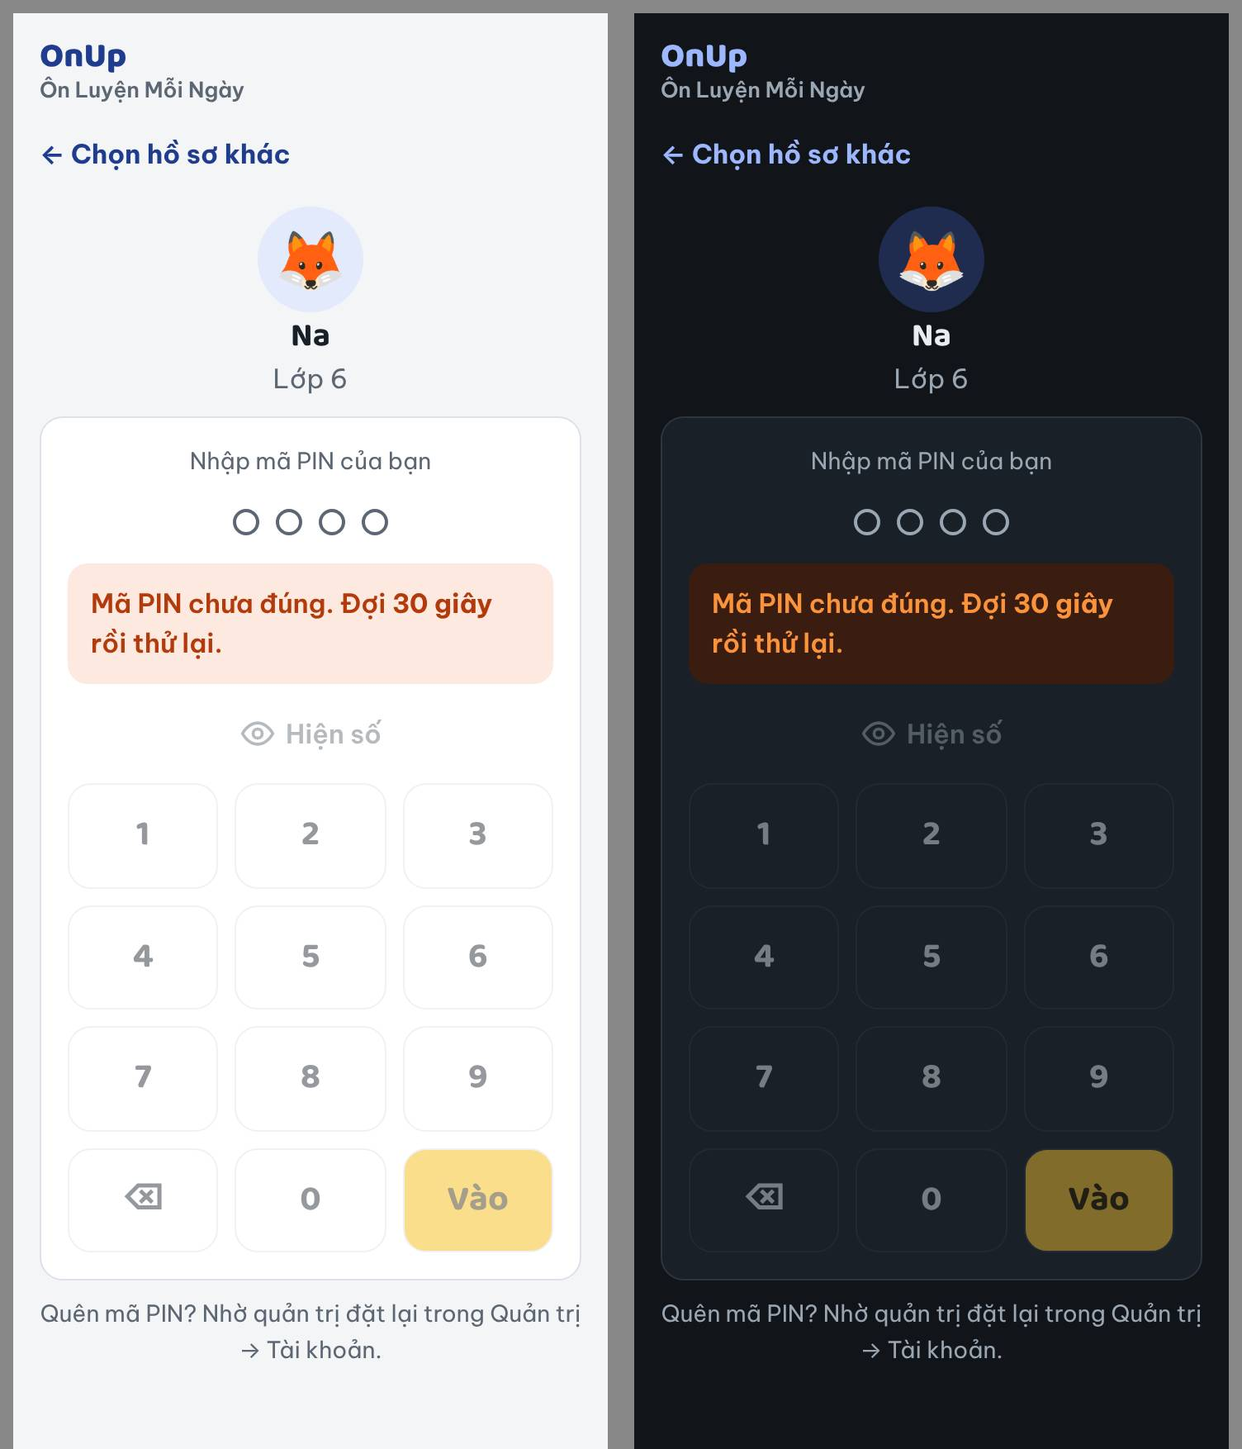
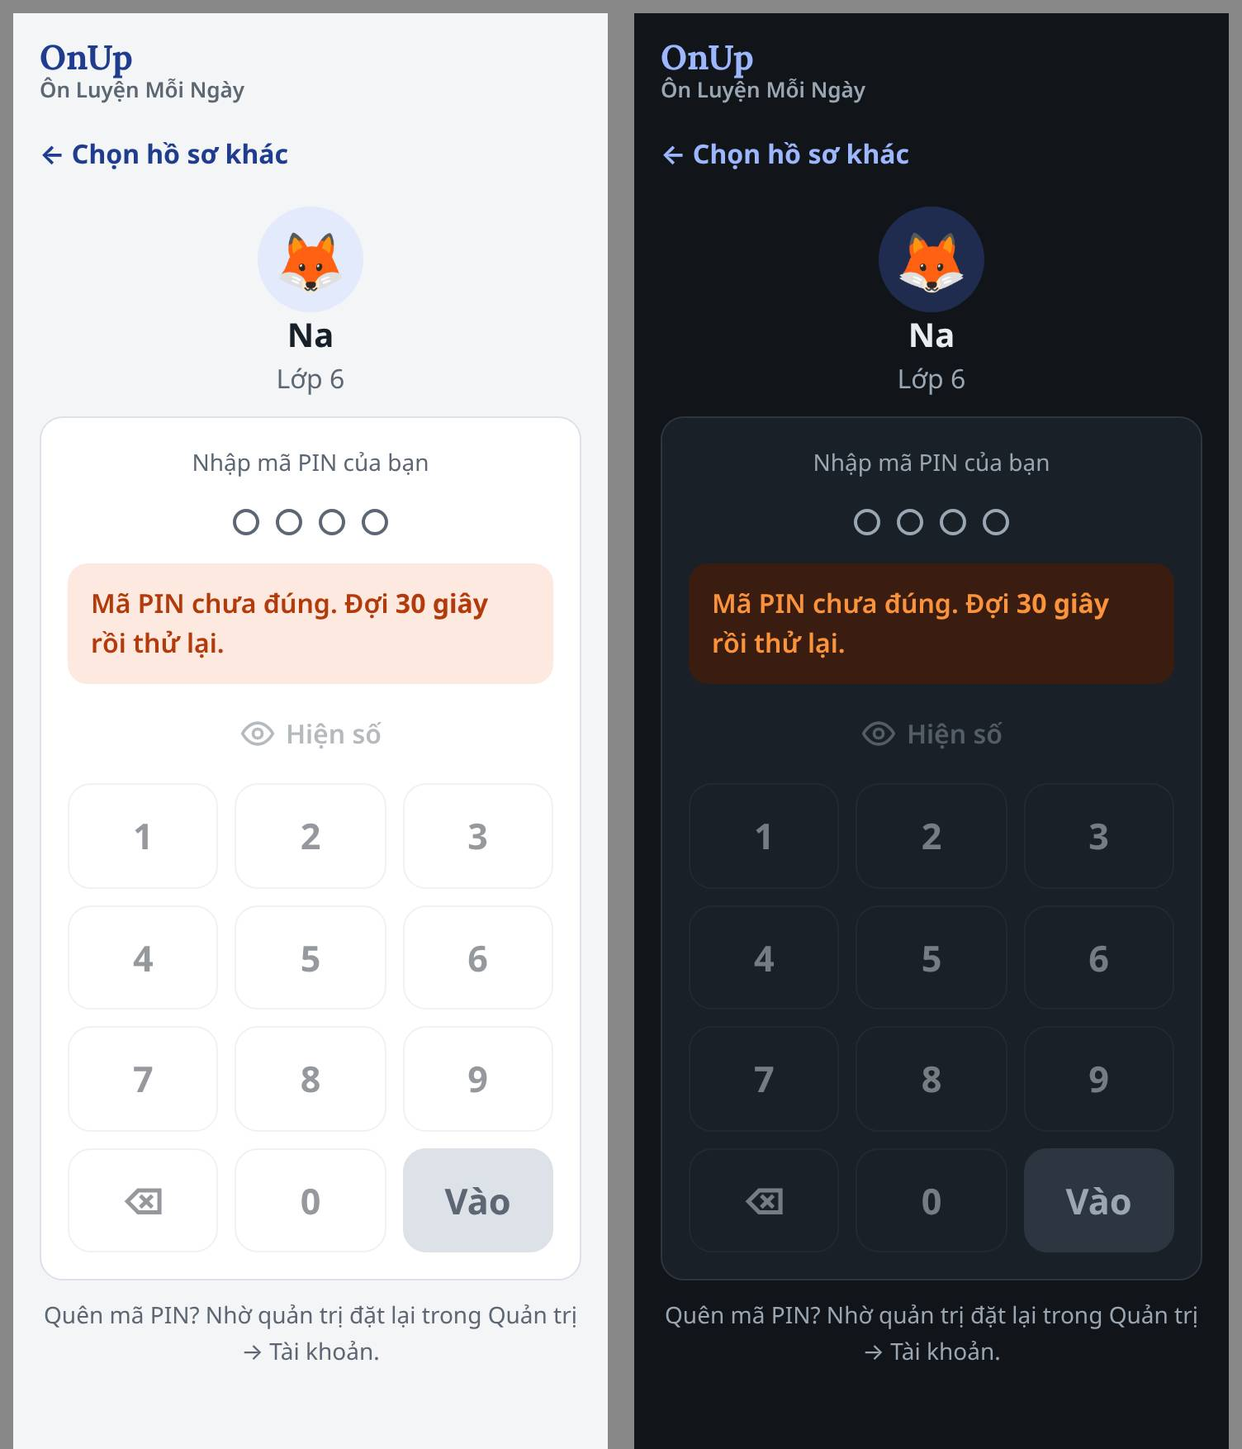
Phiên UI2: nút chính và phím Vào bị tắt có nền line, chữ muted (X32)
Nút chính bị tắt (.btn.main:disabled: "Cho con học", "Vào khu phụ huynh",
"Đăng xuất" của hộp hỏi khi phải đợi, "Tạo hồ sơ" khi đủ hồ sơ, "Chuyển dữ
liệu máy này lên đám mây") và phím Vào của bàn phím PIN bị tắt: nền --line,
chữ --muted, không làm mờ, ở cả sáng và tối. Trước đây chỉ làm mờ .45, nên ở
chế độ tối nền --sun thành khối màu ô liu, trông như nút bấm được. Nút khác
bị tắt giữ opacity .45; cách bật, tắt nút không đổi.

Phím Vào bỏ style viết thẳng trong pinBoxHTML (js/app.js), dùng lớp .ok
(.pad .ok trong css/app.css).

Kiểm thử: bước UX4 của tests/e2e.js (phím Vào khi phải đợi, bật lại) và
kiểm tra "UI2" của tests/supabase/cloud-e2e.js ("Cho con học" khi chưa có
hồ sơ con và khi đã có; phím Vào của mã mở nhanh khi phải đợi, bật lại), cả
sáng và tối: màu đã vẽ bằng màu của token, opacity 1; phím số, "Hiện số" bị
tắt vẫn mờ .45. Ảnh 360px sáng/tối chép lại: docs/hinh-ux4/a4-dang-doi.jpg,
ma-mo-nhanh-dang-doi.jpg, docs/hinh-ux3/bat-dau-3-buoc.jpg; ảnh trước/sau
docs/hinh-ux-2x/ui2-truoc-sau.jpg. CLAUDE.md thêm quy ước "Nút bị tắt".

Claude-Session: https://claude.ai/code/session_01BczvG198oPGaf6YZgZphM5

diff --git a/tests/supabase/cloud-e2e.js b/tests/supabase/cloud-e2e.js
@@ -96,6 +96,12 @@ const audit = () => {
   }
   return [...new Set(bad)];
 };
+/* Phiên UI2 (X32), như btnTone của tests/e2e.js: màu đã vẽ của nút (nền, chữ, opacity) và màu đã tính của token line, muted, sun, sun-ink.
+   Nút chính, phím Vào bị tắt: nền line, chữ muted, opacity 1 (offTone); bật: nền sun, chữ sun-ink (onTone). */
+const btnTone = (sel) => { const b = document.querySelector(sel), s = getComputedStyle(b), tok = (v) => { const i = document.createElement("i"); i.style.color = `var(${v})`; document.body.appendChild(i); const c = getComputedStyle(i).color; i.remove(); return c; };
+  return { dis: b.disabled, bg: s.backgroundColor, color: s.color, op: s.opacity, line: tok("--line"), muted: tok("--muted"), sun: tok("--sun"), sunInk: tok("--sun-ink") }; };
+const offTone = (t) => !!t && t.dis && t.bg === t.line && t.color === t.muted && t.op === "1";
+const onTone = (t) => !!t && !t.dis && t.bg === t.sun && t.color === t.sunInk && t.op === "1";
 
 // Chữ cái tiếng Việt (như tests/kiem-tra-de.js): màn làm đề Tiếng Anh không được có (TA2).
 const CHU_VIET = /[àáảãạăằắẳẵặâầấẩẫậèéẻẽẹêềếểễệìíỉĩịòóỏõọôồốổỗộơờớởỡợùúủũụưừứửữựỳýỷỹỵđ]/iu;
@@ -234,6 +240,7 @@ async function run(browser, scheme) {
     add: !!st.querySelector("a.btn[href='#/admin/user/new?role=student']"), first: document.querySelector("#kids").firstElementChild.id, rows: document.querySelectorAll("#kids > .row").length,
     link2: [...st.querySelectorAll(".step:nth-child(2) a")].map((a) => a.getAttribute("href") + " · " + a.textContent).join() } : null; }); // link2: link đặt mã PIN của bước 2 (UX3b)
   c.ux3 = { start0: await startOf(p), switchTxt: await text(p, "#switchWho") }; c.ux3b = {}; // ux3b: các kiểm tra của Phiên UX3b
+  c.ui2 = { letOff: await p.evaluate(btnTone, "#letStudy") }; // UI2 (X32): "Cho con học" bị tắt: nền line, chữ muted, không mờ
 
   /* ---- thêm hồ sơ con ---- */
   await p.click("a[href='#/admin/user/new?role=student']"); await p.waitForSelector("#uForm");
@@ -252,6 +259,7 @@ async function run(browser, scheme) {
   c.ux2.kids = await p.evaluate(() => ({ cards: [...document.querySelectorAll("#kids a.kid")].map((k) => k.getAttribute("href") + " " + [...k.querySelectorAll(".stat")].map((s) => s.querySelector("b").textContent + " " + s.querySelector("span").textContent).join("|") + " " + (k.querySelector(".kid-ev") || {}).textContent).join("; ").replace(/\s+/g, " "),
     extraStats: !!document.querySelector("#view > .stack > .stats"), h2: [...document.querySelectorAll("#view h2")].map((h) => h.textContent).join(), count: [...document.querySelectorAll("#kids > .row > .small")].map((x) => x.textContent).join(), add: !!document.querySelector("#kids > .row > a[href='#/admin/user/new?role=student']"), hint: document.querySelector("#kids > p.small").textContent }));
   c.ux3.start2 = await startOf(p); // UX3: có con nhưng chưa con nào học: bước 1 xong, bước 3 đang làm, "Cho con học" bật; UX3b (X19): Bin có mã, Na không: bước 2 chưa ✓, "Na chưa có", link "Đặt mã PIN cho Na"
+  c.ui2.letOn = await p.evaluate(btnTone, "#letStudy");
   await shot(p, "c6-cac-con");
   // UX3b (X18): link của bước 2 mở thẳng hồ sơ của Na (?tu=batdau): ô Mã PIN được focus, nút quay lại về Các con; để trống mã mà Lưu thì toast "Đã lưu",
   // về Các con, bước 2 vẫn chưa ✓; có mã thì toast "Đã đặt mã PIN cho Na", về Các con, bước 2 có ✓ "Bin, Na đã có mã PIN." và hết link
@@ -642,10 +650,13 @@ async function run(browser, scheme) {
   const lockUI3 = () => p3.evaluate(() => { const top = (s) => document.querySelector(s).getBoundingClientRect().top; return { dis: [...document.querySelectorAll(".pad button")].filter((b) => b.disabled).length, show: document.querySelector("#pinShow").disabled,
     order: top("#pinDots") < top("#pinErr") && top("#pinErr") < top("#pinShow") && top("#pinShow") < top(".pad"), err: document.querySelector("#pinErr").textContent.replace(/\s+/g, " ").trim(), fails: (JSON.parse(localStorage.getItem("ontap_pinlock_v1") || "{}")["phu-huynh"] || {}).fails }; });
   c.ux4.locked = await lockUI3();
+  c.ui2.padOff = await p3.evaluate(btnTone, ".pad .ok"); // UI2 (X32): phím Vào bị tắt như nút chính bị tắt; phím số, Hiện số vẫn mờ .45
+  c.ui2.padDim = await p3.evaluate(() => [...document.querySelectorAll('.pad button:not(.ok)'), document.querySelector("#pinShow")].map((b) => getComputedStyle(b).opacity));
   await shot(p3, "c10c-dang-doi");
   await p3.evaluate(() => { const o = JSON.parse(localStorage.getItem("ontap_pinlock_v1")); o["phu-huynh"].until = Date.now() + 1200; localStorage.setItem("ontap_pinlock_v1", JSON.stringify(o)); });
   await p3.waitForSelector("#pinErr .fb.ok", { timeout: 5000 });
   c.ux4.unlocked = await lockUI3();
+  c.ui2.padOn = await p3.evaluate(btnTone, ".pad .ok");
   await p3.click("#pinToPw"); await p3.waitForSelector("#pwBox:not([hidden])");
   c.ux3.toPw = (await p3.$eval("#pinBox", (b) => b.hidden)) + " " + (await text(p3, "#pwToPin"));
   await p3.click("#pwToPin"); await p3.waitForSelector("#pinBox:not([hidden])");
@@ -1030,6 +1041,8 @@ async function run(browser, scheme) {
       && !!c.ux3.start2 && c.ux3.start2.steps === "done:Thêm hồ sơ con|:Đặt mã PIN (không bắt buộc)|now:Đưa máy cho con" && !c.ux3.start2.disabled && c.ux3.start2.h >= 52 && c.ux3.start2.first === "start" && c.ux3.start2.rows === 1
       && /✓Thêm hồ sơ conĐã có 2 hồ sơ: Bin, Na\. 2Đặt mã PIN \(không bắt buộc\)Bin đã có mã PIN\. Na chưa có\.Đặt mã PIN cho Na 3Đưa máy cho con/.test(c.ux3.start2.text) && /Lúc khác, bấm “Chọn hồ sơ khác” ở góc trên\.$/.test(c.ux3.start2.text)
       && c.ux3.letStudy && c.ux3.gone,
+    "UI2 (X32): nút chính, phím Vào bị tắt có nền line, chữ muted, không mờ (“Cho con học” khi chưa có hồ sơ con, Vào khi phải đợi); bật lại thì nền sun, chữ sun-ink; phím số, Hiện số bị tắt vẫn mờ .45":
+      offTone(c.ui2.letOff) && onTone(c.ui2.letOn) && offTone(c.ui2.padOff) && onTone(c.ui2.padOn) && c.ui2.padDim.length === 12 && c.ui2.padDim.every((o) => o === "0.45"),
     "UX3b (X19): bước 2 chưa ✓ khi Na chưa có mã: ghi “Bin đã có mã PIN. Na chưa có.”, link “Đặt mã PIN cho Na” mở thẳng hồ sơ của Na; mọi con có mã thì ✓ “Bin, Na đã có mã PIN.”, hết link; nút “Cho con học” vẫn bật":
       c.ux3.start2.link2 === `#/admin/user/${naId}?tu=batdau · Đặt mã PIN cho Na` && c.ux3b.pinSave.start.steps === "done:Thêm hồ sơ con|done:Đặt mã PIN (không bắt buộc)|now:Đưa máy cho con"
       && /✓Đặt mã PIN \(không bắt buộc\)Bin, Na đã có mã PIN\. 3Đưa máy cho con/.test(c.ux3b.pinSave.start.text) && c.ux3b.pinSave.start.link2 === "" && !c.ux3b.pinSave.start.disabled,

diff --git a/tests/e2e.js b/tests/e2e.js
@@ -2373,11 +2373,18 @@ const TODAY = "2026-10-21T07:00:00", T0 = Date.now();
   step("profile entry step, PIN lock UI, tap-to-change avatar (UX4)");
   /* Phiên UX4 (X1–X4), bản lưu trên máy: chạm hồ sơ có PIN thì sang bước nhập riêng #/vao/<mã> (không cuộn, tên và 12 nút bàn phím
      trong khung nhìn 740px, "← Chọn hồ sơ khác", hình to, tên, lớp, "Nhập mã PIN của bạn", hàng chấm, nút chữ "Hiện số", bàn phím, dòng
-     quên PIN); số đã gõ chỉ hiện ở hàng chấm (ô #pinIn ẩn); sai 5 lần thì đếm ngược ngay dưới hàng chấm, bàn phím và Hiện số disabled,
-     hết giờ bật lại; trang Tài khoản: chạm hình là đổi ngay (Store.user(id).avatar đổi, toast, không có nút Lưu), form đổi mã PIN riêng.
+     quên PIN); số đã gõ chỉ hiện ở hàng chấm (ô #pinIn ẩn); sai 5 lần thì đếm ngược ngay dưới hàng chấm, bàn phím và Hiện số disabled
+     (phím Vào nền line, chữ muted, không mờ; phím khác mờ .45; Phiên UI2, X32), hết giờ bật lại; trang Tài khoản: chạm hình là đổi ngay
+     (Store.user(id).avatar đổi, toast, không có nút Lưu), form đổi mã PIN riêng.
      Ảnh 360px sáng/tối ở tests/screenshots/ux4/ (bản ghép <tên>.jpg): a3-nhap-pin, a3-hien-so, a4-dang-doi, a6-hinh-dai-dien, a6-da-doi. */
   const OUTUX4 = OUT + "ux4/"; fs.mkdirSync(OUTUX4, { recursive: true });
   const ux4 = { problems: [], shots: [] };
+  /* Phiên UI2 (X32): màu đã vẽ của nút (nền, chữ, opacity) và màu đã tính của token line, muted, sun, sun-ink (bản giống trong
+     tests/supabase/cloud-e2e.js). Phím Vào bị tắt khi phải đợi: nền line, chữ muted, opacity 1 (offTone); bật lại: nền sun, chữ sun-ink (onTone). */
+  const btnTone = (sel) => { const b = document.querySelector(sel), s = getComputedStyle(b), tok = (v) => { const i = document.createElement("i"); i.style.color = `var(${v})`; document.body.appendChild(i); const c = getComputedStyle(i).color; i.remove(); return c; };
+    return { dis: b.disabled, bg: s.backgroundColor, color: s.color, op: s.opacity, line: tok("--line"), muted: tok("--muted"), sun: tok("--sun"), sunInk: tok("--sun-ink") }; };
+  const offTone = (t) => !!t && t.dis && t.bg === t.line && t.color === t.muted && t.op === "1";
+  const onTone = (t) => !!t && !t.dis && t.bg === t.sun && t.color === t.sunInk && t.op === "1";
   for (const scheme of ["light", "dark"]) {
     const c = await newContext({ storageState: state, viewport: { width: 360, height: 740 }, deviceScaleFactor: 2, colorScheme: scheme });
     await localConfig(c); watchOut(c);
@@ -2402,10 +2409,13 @@ const TODAY = "2026-10-21T07:00:00", T0 = Date.now();
     for (let i = 0; i < 5; i++) { for (const k of "0000") await p.click(`.pad button[data-k="${k}"]`); await p.waitForTimeout(250); } // sai 5 lần
     await p.waitForSelector("#pinWait");
     r.locked = await lockUI4();
+    r.okOff = await p.evaluate(btnTone, ".pad .ok"); // UI2 (X32): phím Vào bị tắt; phím số, Hiện số vẫn mờ .45
+    r.dim = await p.evaluate(() => [...document.querySelectorAll(".pad button:not(.ok)"), document.querySelector("#pinShow")].map((b) => getComputedStyle(b).opacity));
     await check4("đang phải đợi"); await snap4("a4-dang-doi");
     await p.evaluate(() => { const o = JSON.parse(localStorage.getItem("ontap_pinlock_v1")); for (const k in o) if (o[k].until) o[k].until = Date.now() + 1200; localStorage.setItem("ontap_pinlock_v1", JSON.stringify(o)); });
     await p.waitForSelector("#pinErr .fb.ok", { timeout: 5000 });
     r.unlocked = await lockUI4();
+    r.okOn = await p.evaluate(btnTone, ".pad .ok");
     for (const k of "4444") await p.click(`.pad button[data-k="${k}"]`); await p.waitForSelector("#today"); // bật lại thì vào được
     r.in = await p.evaluate(() => (Store.sessionUser() || {}).name);
     // X4: trang Tài khoản: thẻ "Hình đại diện" chạm là đổi; form "Đổi mã PIN" riêng
@@ -2439,6 +2449,7 @@ const TODAY = "2026-10-21T07:00:00", T0 = Date.now();
       && r.shown.dots === "44" && /shown/.test(r.shown.cls) && r.shown.pressed === "true" && r.shown.inputW <= 1 && r.shown.type === "text"
       && r.locked.dis === 12 && r.locked.show && r.locked.order && /^Mã PIN chưa đúng\. Đợi (30|29) giây rồi thử lại\.$/.test(r.locked.err) && r.locked.inputW <= 1
       && r.unlocked.dis === 0 && !r.unlocked.show && r.unlocked.order && r.unlocked.err === "Bạn nhập lại được rồi." && r.in === "Na"
+      && offTone(r.okOff) && onTone(r.okOn) && r.dim.length === 12 && r.dim.every((o) => o === "0.45")
       && r.account.hint === "Chạm vào hình là đổi ngay." && !r.account.save && r.account.pinBtn === "Đổi mã PIN" && r.account.h3 === "Hình đại diện,Đổi mã PIN"
       && r.changed.av && r.changed.toast === "Đã đổi hình đại diện" && r.changed.head && r.changed.top && r.changed.pressed && r.changed.saved && /Nhập mã PIN mới/.test(r.pinForm); });
 

diff --git a/css/app.css b/css/app.css
@@ -80,6 +80,9 @@ a{color:var(--acc)}
 /* Vùng bấm tối thiểu 44×44px (tay trẻ): nút nhỏ, link dạng nút giữ cỡ chữ, chỉ cao thêm. */
 .btn.sm{padding:7px 12px;font-size:.875rem;border-radius:10px;min-height:44px}
 .btn:disabled{opacity:.45;cursor:default}
+/* Nút chính và phím Vào của bàn phím PIN bị tắt (X32, Phiên UI2): nền line, chữ muted, không làm mờ. Làm mờ nền sun trên thẻ tối
+   thành khối màu ô liu, trông như một nút khác màu vẫn bấm được. Nút khác (.btn thường, ghost, danger, phím số, Hiện số) vẫn mờ .45. */
+.btn.main:disabled,.pad .ok:disabled{background:var(--line);color:var(--muted);opacity:1}
 .linkbtn{border:0;background:none;color:var(--acc);font-weight:700;padding:4px 0;text-align:left;align-self:flex-start;min-height:44px;min-width:44px;display:inline-flex;align-items:center}
 /* <details class="small"> (hướng dẫn gấp lại, ví dụ "Cách viết câu hỏi" ở màn nhập đề): dòng summary là vùng bấm, cao ≥ 44px, chữ căn giữa;
    giữ dấu tam giác mặc định (display: list-item). .grp>summary, .psg>summary có kiểu riêng bên dưới. */
@@ -159,6 +162,7 @@ a.kid{color:inherit;text-decoration:none;gap:12px}
 .pad{display:grid;grid-template-columns:repeat(3,1fr);gap:10px;max-width:300px;margin:0 auto;width:100%}
 .pad button{border:1px solid var(--line);background:var(--surface);border-radius:14px;padding:14px 0;font-size:1.35rem;font-weight:700;min-height:44px}
 .pad button:disabled{opacity:.45;cursor:default} /* đang phải đợi sau nhiều lần sai (UX4, X3) */
+.pad .ok{background:var(--sun);color:var(--sun-ink)} /* phím Vào; bị tắt thì như nút chính bị tắt (X32, quy tắc ở phần nút) */
 /* bước nhập PIN, mật khẩu (#/vao/<mã>, renderEnter trong js/app.js, UX4): hình to, tên, lớp ở giữa; bàn phím ngay dưới,
    cả màn hình vừa 360×740 không cuộn (tests/e2e.js, cloud-e2e.js đo tên và 12 nút bàn phím trong khung nhìn). */
 .enter{gap:10px}

diff --git a/js/app.js b/js/app.js
@@ -392,7 +392,7 @@
         <label class="field sr"><span id="pinLabel">Mã PIN</span><input id="pinIn" type="password" inputmode="numeric" maxlength="6" autocomplete="off" data-reveal="pinShow"></label>
         <div id="pinErr" aria-live="assertive"></div>
         <button type="button" class="linkbtn pin-show" id="pinShow"></button>
-        <div class="pad">${[1, 2, 3, 4, 5, 6, 7, 8, 9].map((n) => `<button type="button" data-k="${n}">${n}</button>`).join("")}<button type="button" data-k="del" aria-label="Xóa">⌫</button><button type="button" data-k="0">0</button><button type="button" data-k="ok" aria-label="Vào" style="background:var(--sun);color:var(--sun-ink)">Vào</button></div>
+        <div class="pad">${[1, 2, 3, 4, 5, 6, 7, 8, 9].map((n) => `<button type="button" data-k="${n}">${n}</button>`).join("")}<button type="button" data-k="del" aria-label="Xóa">⌫</button><button type="button" data-k="0">0</button><button type="button" class="ok" data-k="ok" aria-label="Vào">Vào</button></div>
         <div class="row" style="justify-content:center" id="pinAlt" hidden></div>
       </section>`;
   /* Bàn phím PIN dùng chung cho đăng nhập trên máy và trên đám mây. submit(pin) được gọi khi bấm Vào, Enter,

diff --git a/CLAUDE.md b/CLAUDE.md
@@ -224,6 +224,7 @@ Trang admin (`admin.html`, chủ app mở `…/OnUp/admin.html`):
 - Mọi đọc/ghi localStorage/sessionStorage bọc try/catch.
 - Màu chỉ dùng token trong `:root` của `css/app.css`. **Chữ (chủ app chốt 20/10/2026):** mọi chữ dùng Noto Sans (`--body`; 400–700), kể cả tiêu đề h1–h3, số liệu, ngày thi, bàn phím PIN, chữ A B C D. Lora (`--display`, chỉ có 700) chỉ ở hai chỗ cần nổi bật: chữ OnUp ở thanh trên (`.brand`) và điểm to ở màn kết quả (`.score`, cả 4 bài ôn); không thêm chỗ dùng Lora khác. Dòng dưới chữ OnUp (`.brand-sub`) luôn là chữ nhỏ màu nhạt, mọi bề rộng màn hình. Một khối chỉ nên có một tiêu đề và các dòng phụ cùng một kiểu (chữ thường, màu nhạt, như đầu báo cáo tuần), không chồng nhãn chữ hoa, tiêu đề, dòng đậm, dòng nhạt trong cùng một chỗ. Tiêu đề h1–h3 line-height 1.35 (chữ hoa hai dấu như Ố, Ẫ không chạm chân chữ g, y của dòng trên); số bằng Lora dùng chữ số tỉ lệ, không ghi `tabular-nums` (chữ số bằng nhau của Lora rộng 0,65em, dấu phẩy 0,33em). Không ghi độ đậm 800 (font chỉ có đến 700). Bước offline của `tests/e2e.js` kiểm tra: `var(--display)` chỉ ở `.brand`, `.score` (bài ôn: `.score`), không `tabular-nums`, h1–h3 1.35, không 800. Bản lưu trên máy không tải gì từ host khác (không Google Fonts, không CDN); `tests/e2e.js` kiểm tra.
 - **Ô trả lời (chủ app chốt 21/10/2026):** ô đang chọn (chưa kiểm tra) và ô đang gõ ở mọi môn, mọi dạng câu dùng một màu xanh: `--acc`, `--acc-soft` ở app (`.opt.sel`, `.qtext .blank`, thang tự chấm), `--pick`, `--pick-soft` cùng giá trị ở 4 bài ôn. Không tô ô đang chọn bằng màu của môn: hồng dễ lẫn với câu sai (`--bad`), xanh lá dễ lẫn với câu đúng (`--ok`). Riêng ô bên trái đang chờ nối của câu nối cột viền vàng (`.mt-li.on`, cùng màu vòng focus); các ô đã nối vẫn là `.opt.sel` xanh.
+- **Nút bị tắt (Phiên UI2, X32):** nút chính (`.btn.main:disabled`: “Cho con học”, “Vào khu phụ huynh”, “Đăng xuất” của hộp hỏi khi phải đợi, “Tạo hồ sơ” khi đủ hồ sơ, “Chuyển dữ liệu máy này lên đám mây”…) và phím Vào của bàn phím PIN (`.pad .ok:disabled`) bị tắt có nền `--line`, chữ `--muted`, không làm mờ, ở cả sáng và tối: làm mờ nền `--sun` trên thẻ tối thành khối màu ô liu, trông như nút khác màu vẫn bấm được. Nút khác bị tắt (`.btn` thường, `ghost`, `danger`, phím số, “Hiện số”) giữ `opacity: .45`. Phím Vào tô màu bằng lớp `.ok` trong css/app.css, không viết style thẳng trong `pinBoxHTML`. Kiểm thử: bước UX4 của `tests/e2e.js` (phím Vào khi phải đợi) và kiểm tra “UI2” của `tests/supabase/cloud-e2e.js` (“Cho con học” khi chưa có hồ sơ con, phím Vào của mã mở nhanh khi phải đợi), cả sáng và tối, so màu đã vẽ với màu của token (`btnTone`).
 - **Hình đại diện** (chủ app yêu cầu 22/10/2026: thêm vài hình hải cẩu): trường `avatar` là một emoji (`AVATARS` trong js/app.js) hoặc mã một hình vẽ riêng trong `ART` (`hai-cau-xam`, `hai-cau-con`, `hai-cau-dom`, `hai-cau-mu`, `hai-cau-bong`, `hai-cau-kinh`; file `icons/avatars/<mã>.svg`). Emoji hải cẩu chỉ có một (🦭) và máy cũ không hiện được, nên hình vẽ riêng giống nhau trên mọi máy; màu ghi cố định trong file như emoji và `icons/icon.svg` (không theo token, sáng tối như nhau). Luôn vẽ qua `avatar(u, lg)` hoặc `avIn(a)` của js/app.js, không chèn thẳng `u.avatar` vào HTML: hình vẽ là `<img class="art" alt="">` to bằng emoji cùng cỡ chữ (`.art` trong css/app.css); ô chọn hình của hình vẽ có `aria-label` là tên hình. Mã ≤ 16 kí tự (cột `profiles.avatar` của bản đám mây có check), máy chủ lưu như emoji. Thêm hình vẽ: hình tự vẽ (không vẽ nhân vật có sẵn), file SVG vào `icons/avatars/`, mã và tên vào `ART`, file vào `AVATAR_ART` của `sw.js`, tăng `VERSION`; bước “seal avatars” của `tests/e2e.js` và kiểm tra “hình hải cẩu” của `tests/supabase/cloud-e2e.js`.
 - Ngày lưu dạng `"YYYY-MM-DD"`, hiển thị kiểu Việt Nam `2/11/2026`.
 - Câu hỏi trắc nghiệm trong dữ liệu: đáp án đúng đứng đầu mảng, app tự xáo. Sắp xếp: viết các ô theo thứ tự đúng; nối cột: `l[i]` nối với `r[i]`, ô thừa ở cuối `r`. App tự xáo.
